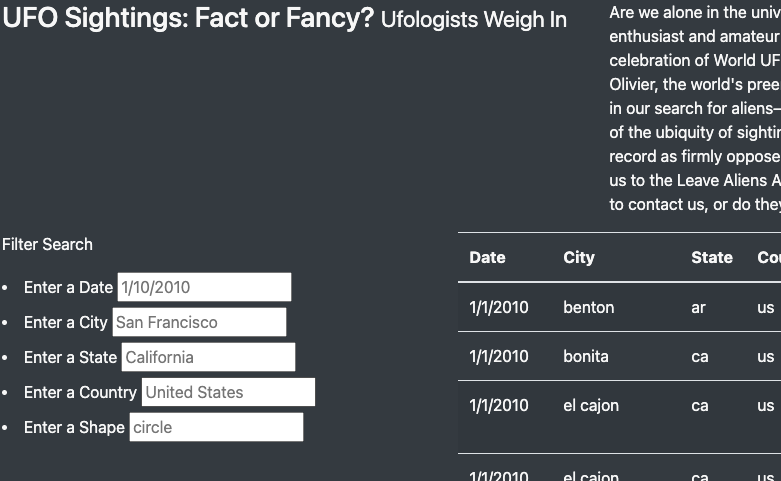
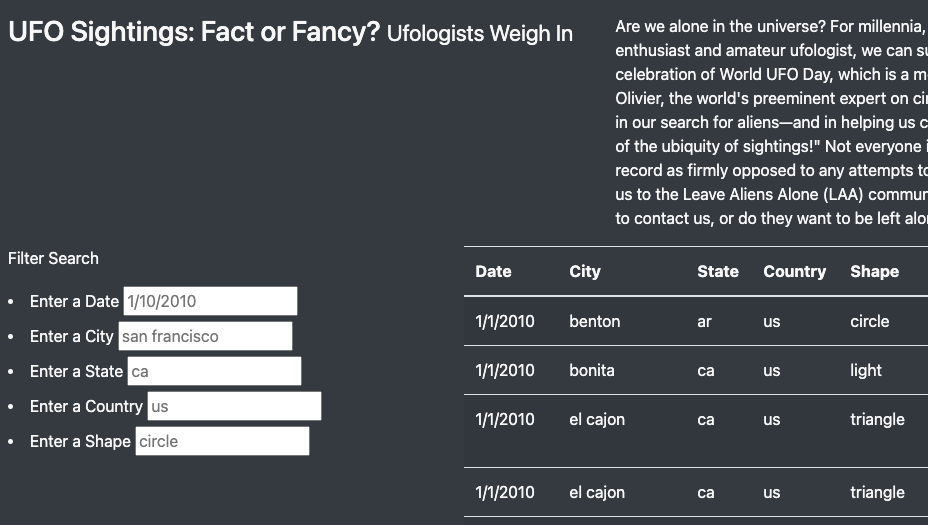
Updated HTML file and table filter image to reflect updated default filter prompts

diff --git a/index.html b/index.html
@@ -61,15 +61,15 @@
                     </li>
                     <li class="bg-dark">
                         <label class="bg-dark"for="city">Enter a City</label>
-                        <input type="text" placeholder="San Francisco" id="city" />
+                        <input type="text" placeholder="san francisco" id="city" />
                     </li>
                     <li class="bg-dark">
                         <label class="bg-dark"for="state">Enter a State</label>
-                        <input type="text" placeholder="California" id="state" />
+                        <input type="text" placeholder="ca" id="state" />
                     </li>
                     <li class="bg-dark">
                         <label class="bg-dark"for="country">Enter a Country</label>
-                        <input type="text" placeholder="United States" id="country" />
+                        <input type="text" placeholder="us" id="country" />
                     </li>
                     <li class="bg-dark">
                         <label class="bg-dark"for="shape">Enter a Shape</label>
